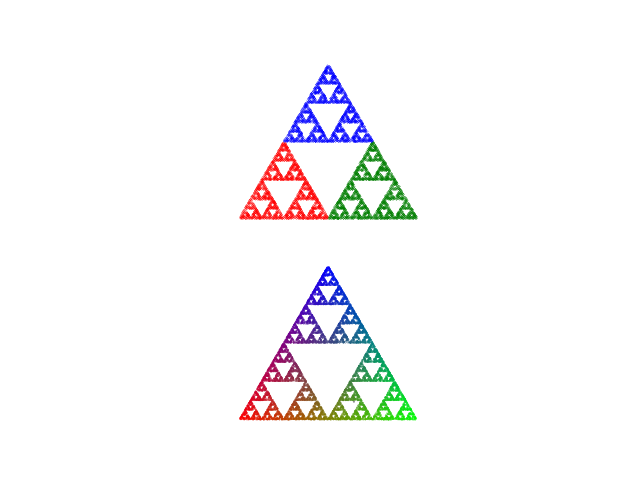
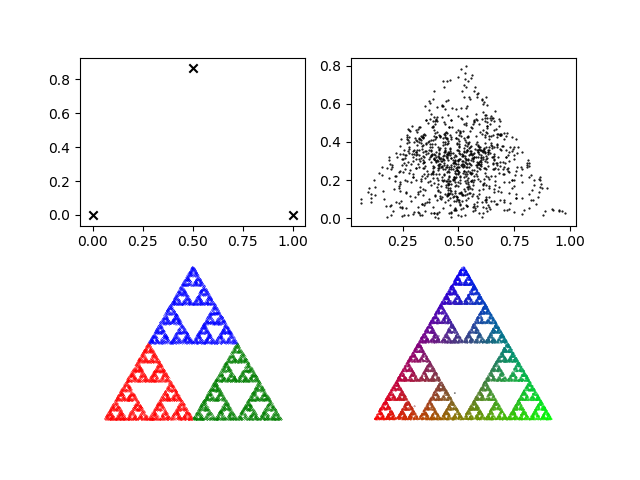
some minior modifications

diff --git a/triangle.py b/triangle.py
@@ -1,55 +1,63 @@
 import numpy as np 
-import matplotlib.pyplot as plt 
+import matplotlib.pyplot as plt
 
-""" Calculating fractal distributions of points based on a 3-gon and
+""" Calculating a specific fractal distributions of points within a 3-gon 
+    in an iterative manner.
 
-    Parameters
-    ----------
-    n: size of n-gon (3 or above)
-    r: ratio between previous point in a iterative manner to selected n-gon corner 
-    default value: 0.5; range: (0, 1)
+    Algorithm:
+    1. First randomely selection of one the corner points.
+    2. New point is localized half way between the selected corner point
+       and previous point.
 
-
-    Output
-    ------
+    Returns
+    -------
     Two scatter plots in a png file:
         1. Color coded with red, green and blue
         2. Color coded with RGB color based on iterative corner
-"""
-
+""" 
+#: array of corner points
 corners = np.array([(0, 0), (1,0), (0.5, np.sqrt(0.75))])
-plt.scatter(*zip(*corners))
+plt.subplot(2,2,1)
+plt.scatter(*zip(*corners),  marker="x", color="black")
 
-w = np.random.random(3)
-w = w/np.sum(w)
-print(corners)
-print(w)
-start = np.array([corners[i] * w[i] for i in range(3)])
-starting_point = np.sum(start, axis=0)
+#: array with a randomely selected start point (also test ploted)
+starting_point = np.empty((1000,2))
+for n in range(1000):
+    w = np.random.random(3)
+    w = w/np.sum(w)
+    start = np.array([corners[i] * w[i] for i in range(3)])
+    starting_point[n] = np.sum(start, axis=0)
 
+plt.subplot(2,2,2)
+plt.scatter(*zip(*starting_point), s=0.3, color="black")
+
+#: matrix to store iterated points
 N = 10000
 X = np.zeros((N,2))
-X[0] = starting_point
+X[0] = starting_point[0]
 
-######
+#: plot with iterated points in three colors chosen based corner vicinities
 colors = np.empty(N)
 for i in range(N-1):
     corner = np.random.randint(0,3)
     X[i+1] = 0.5 * (X[i] + corners[corner])
-    colors[i+1] = corner  
+    colors[i+1] = corner
 
-red = X[colors==0]
-green = X[colors==1]
-blue = X[colors==2]
+X_reduced = np.delete(X, np.s_[0:5], axis=0)
+colors_reduced = np.delete(colors, np.s_[0:5])
 
-plt.subplot(2,1,1)
-plt.scatter(*zip(*red[5:-1]), s=0.1, marker=".", color="red")
-plt.scatter(*zip(*green[5:-1]), s=0.1, marker=".", color="green")
-plt.scatter(*zip(*blue[5:-1]), s=0.1, marker=".", color="blue")
+red = X_reduced[colors_reduced==0]
+green = X_reduced[colors_reduced==1]
+blue = X_reduced[colors_reduced==2]
+
+plt.subplot(2,2,3)
+plt.scatter(*zip(*red), s=0.1, marker=".", color="red")
+plt.scatter(*zip(*green), s=0.1, marker=".", color="green")
+plt.scatter(*zip(*blue), s=0.1, marker=".", color="blue")
 plt.axis("equal")
 plt.axis("off")
 
-#####
+#: ploting iterated points RGB colore coded based on color of previous point and corner vicinity 
 colors = np.zeros((N,3))
 corner_color = ((1,0,0), (0,1,0), (0,0,1))
 
@@ -58,7 +66,7 @@ for i in range(N-1):
     X[i+1] = 0.5 * (X[i] + corners[corner])
     colors[i+1] = 0.5 * (colors[i] + corner_color[corner])  
 
-plt.subplot(2,1,2)
+plt.subplot(2,2,4)
 plt.scatter(*zip(*X), s=0.2, marker=".", c=colors)
 plt.axis("equal")
 plt.axis("off")

diff --git a/chaos_game.py b/chaos_game.py
@@ -4,17 +4,16 @@ import os
 
 class ChaosGame:
     """ Calculating fractal distributions of points based on n-gons and
-        returning them as color coded scatter plots
+        returning them as color coded scatter plots.
 
         Parameters
         ----------
         n: size of n-gon (3 or above)
-        r: ratio between previous point in a iterative manner to selected n-gon corner 
+        r: ratio between previous point the corner decisive of next point 
            default value: 0.5; range: (0, 1)
 
-
-        Output
-        ------
+        Returns
+        -------
         fig.png
 
     """
@@ -37,20 +36,30 @@ class ChaosGame:
 
 
     def _generate_ngon(self):
+        """ Generate array with the n-gon corner points."""
         n = self.n
         self._corners = np.array([[np.sin(i*2*np.pi/(n)), np.cos(i*2*np.pi/(n))] for i in range(n)])
 
 
     def _starting_point(self):
+        """ Randomely select a start point."""
         weight = np.random.random(self.n)
-        weight = weight/np.sum(weight)      # normalizing the weights
+        weight = weight/np.sum(weight)
 
         weighted_corners = np.array([self._corners[i] * weight[i] for i in range(self.n)])
         self.start_value = np.sum(weighted_corners, axis=0) # sum the linear combinations
 
 
-
     def iterate(self, steps, discard=5):
+        """ Accomplish the fractal algorithm
+        
+        Parameters
+        ----------
+        
+        matrix of array with a randomely selected start points
+        
+        
+        """
         r = self.r
         X = np.empty((steps, 2))       # matrix storing the points
         X[0] = self.start_value
